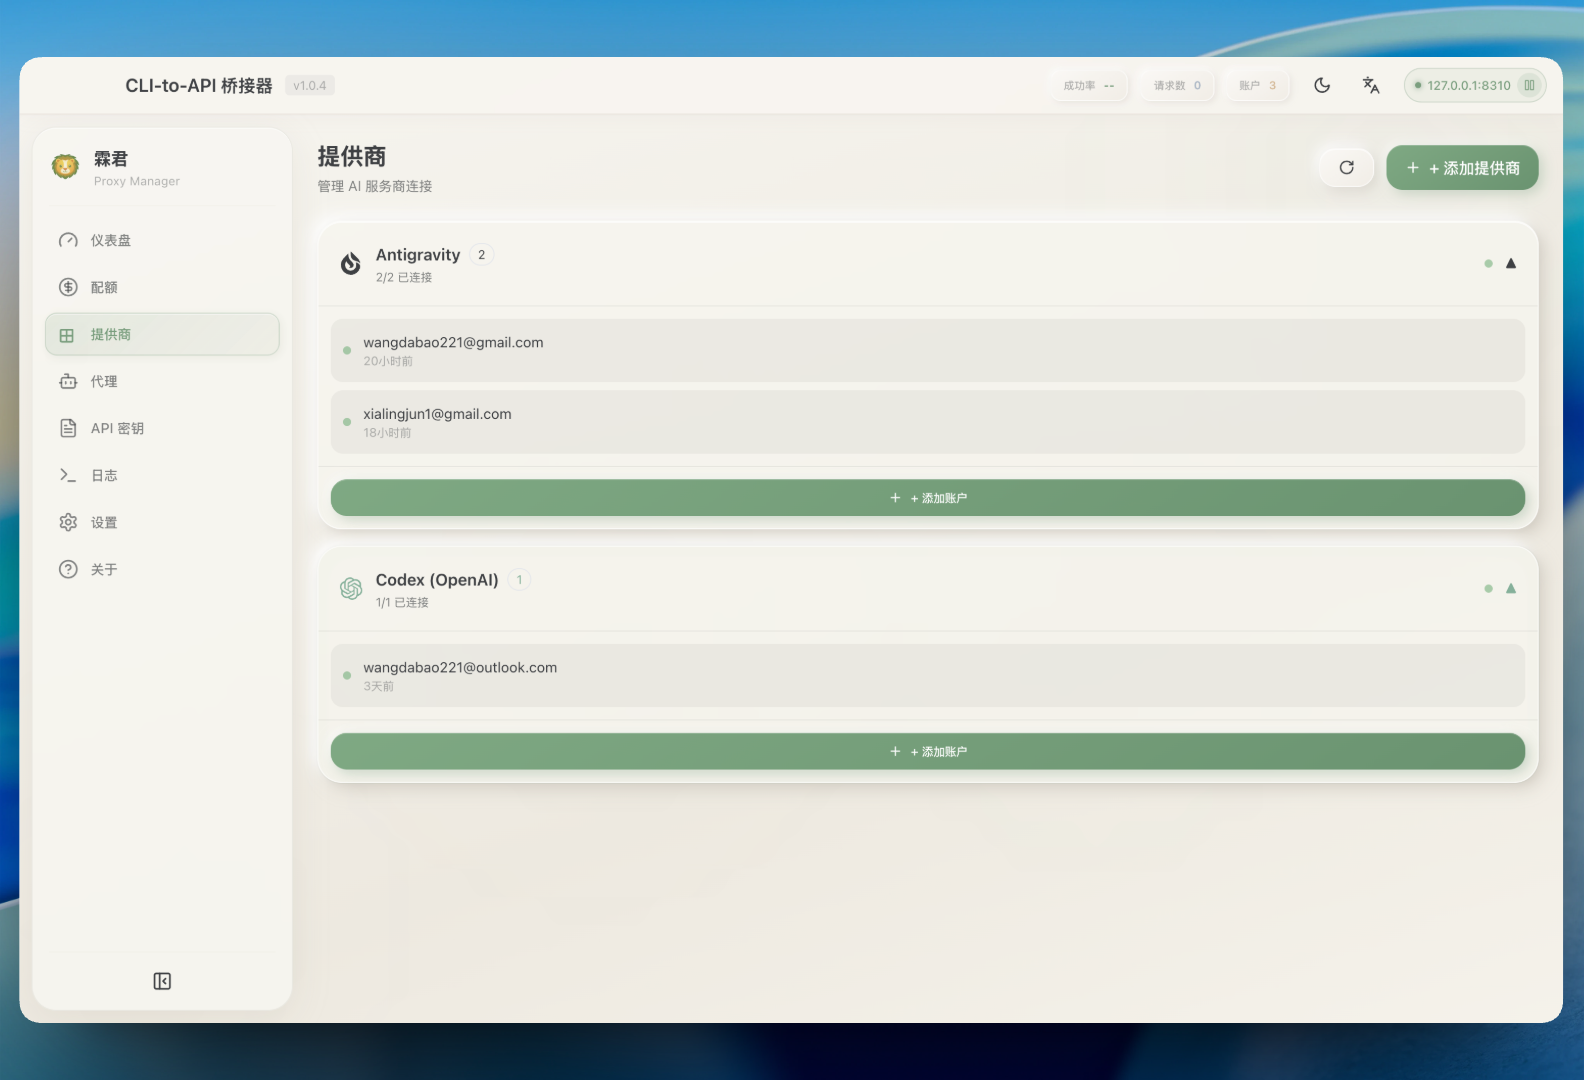
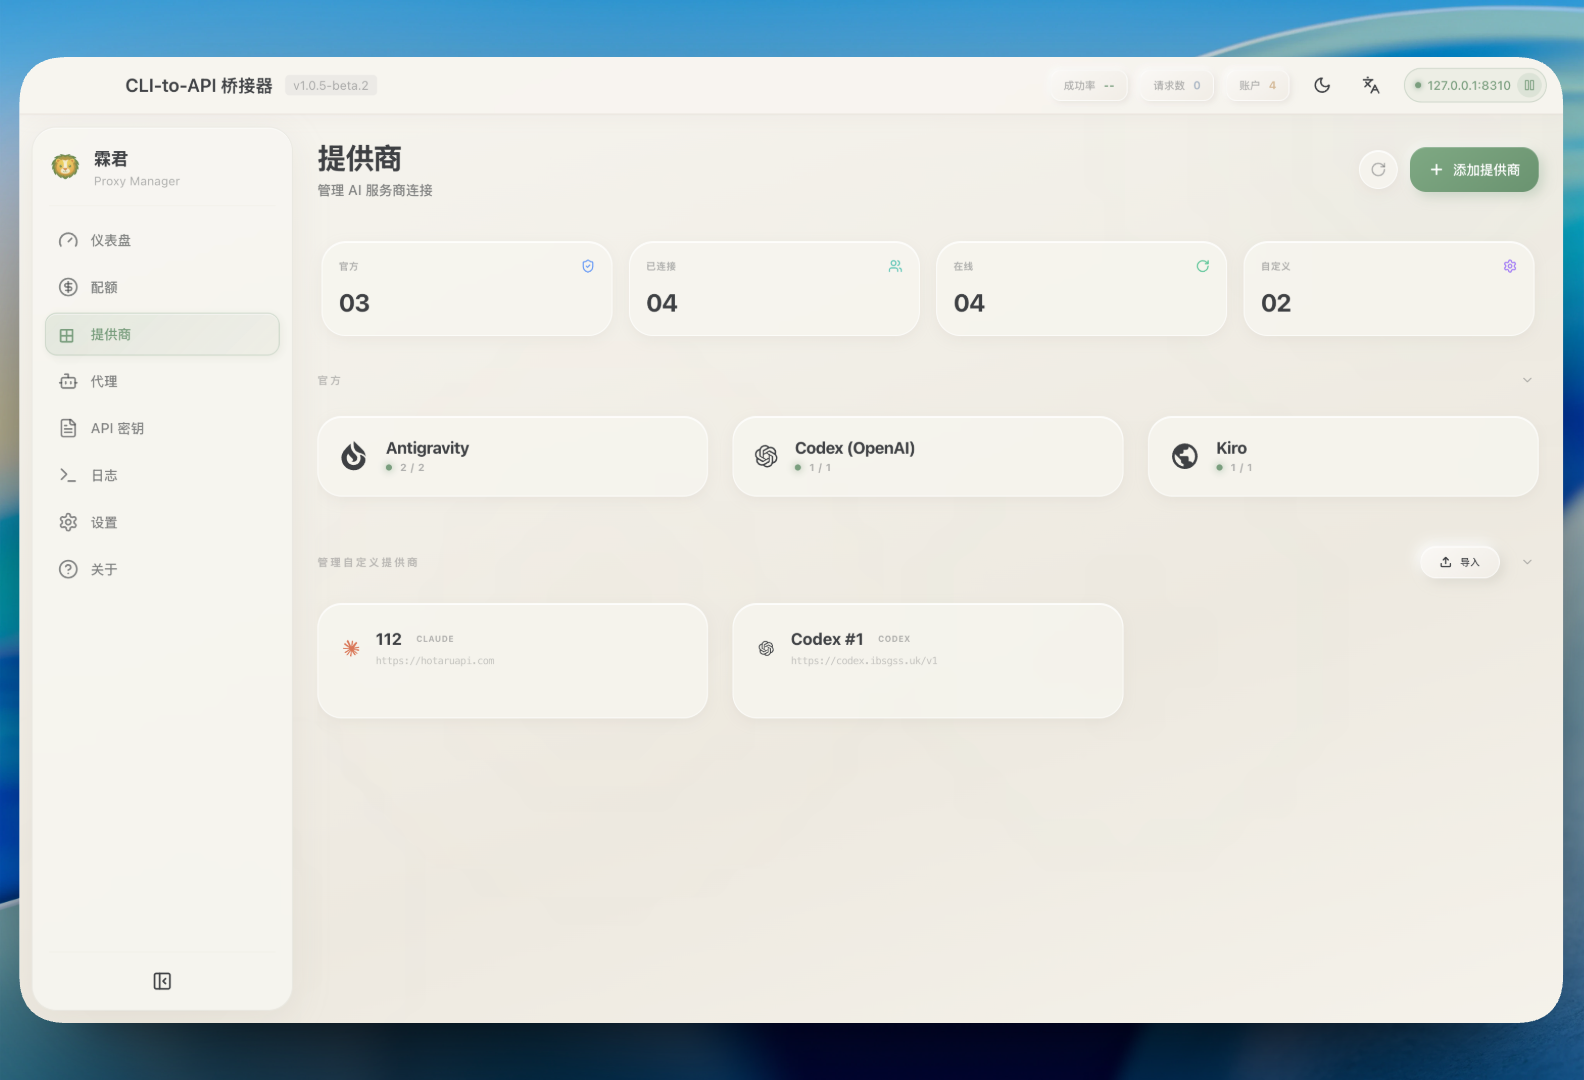
doc: 更新README文件，添加引导页和日志截图

diff --git a/README.md b/README.md
@@ -139,6 +139,10 @@ Go to **Agents** tab → Select detected agent → Configure to use local proxy.
 | -------------------------------------- | ---------------------------------------- |
 | ![Agents](docs/screenshots/agents.png) | ![API Key](docs/screenshots/api-key.png) |
 
+| Guide                                | Logs                               |
+| ------------------------------------ | ---------------------------------- |
+| ![Guide](docs/screenshots/guide.png) | ![Logs](docs/screenshots/logs.png) |
+
 ## ⚙ Settings
 
 - **Port**: Change the proxy listening port (default: 8310)

diff --git a/README_CN.md b/README_CN.md
@@ -140,6 +140,10 @@ bun run build:all      # 所有平台
 | -------------------------------------- | ---------------------------------------- |
 | ![Agents](docs/screenshots/agents.png) | ![API Key](docs/screenshots/api-key.png) |
 
+| 引导页                               | 日志                               |
+| ------------------------------------ | ---------------------------------- |
+| ![Guide](docs/screenshots/guide.png) | ![Logs](docs/screenshots/logs.png) |
+
 ## ⚙ 设置选项
 
 - **端口**：更改代理监听端口（默认：8310）
